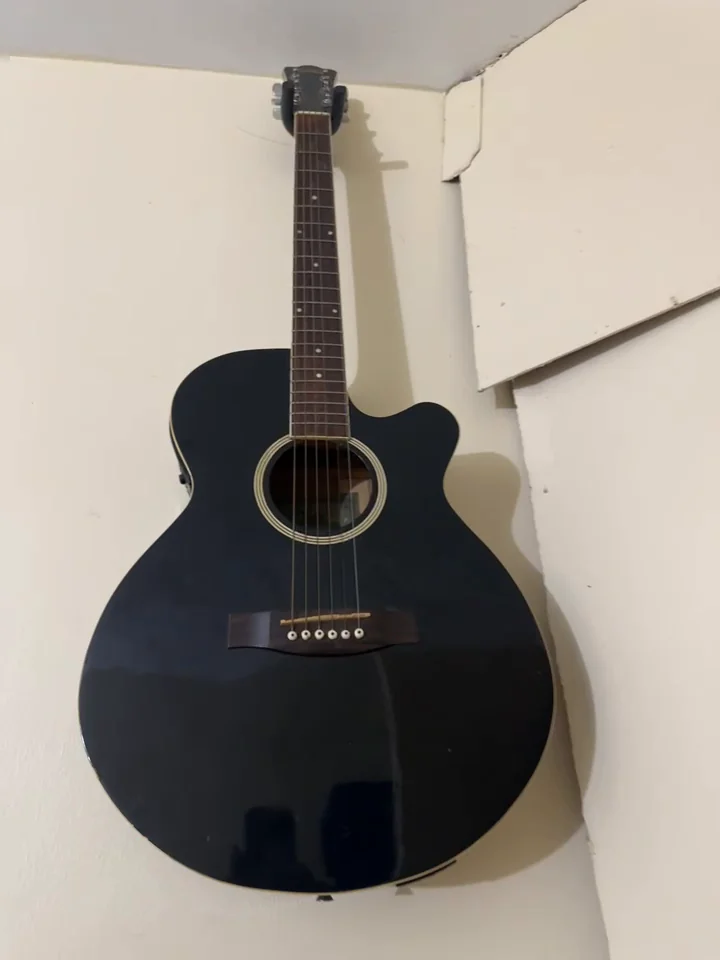
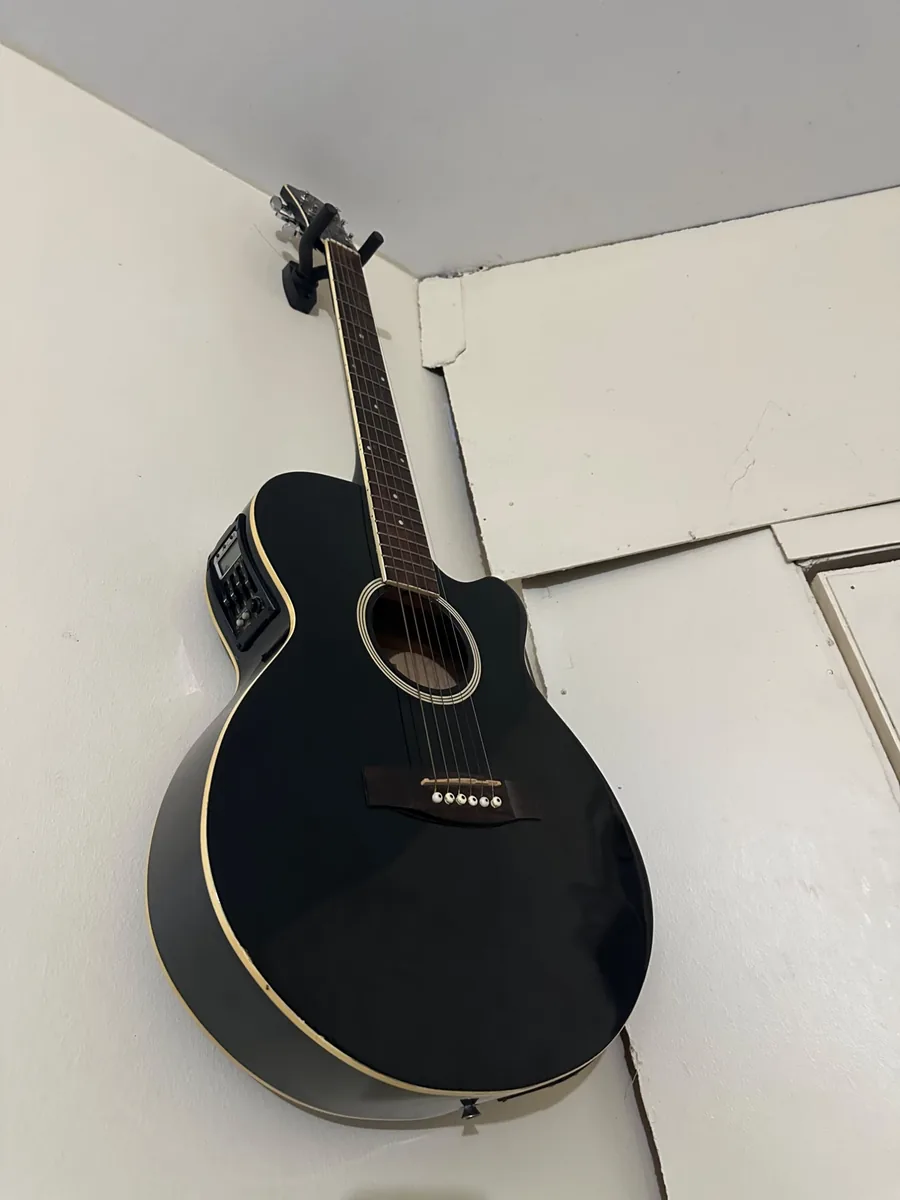
Store : la guitare noire reçoit ses vraies photos (#70)
Les trois vues de la fiche « Guitare électro-acoustique noire » étaient
des images tirées de la vidéo, en 720 x 960. Elles cèdent la place aux
deux photos fournies, en 900 x 1200 : la guitare accrochée au mur, de
face puis de trois quarts, où se lisent le préampli et le filet crème.

La fiche passe donc de trois vues à deux, et vue-guitare-noire-3.webp
disparaît. Les deux photos sont bien distinctes l'une de l'autre (écart
de luminance 17,5 sur 64 x 64, au-dessus du seuil de 11).

Cache-busting porté à ?v=65 sur les dix pages.

Claude-Session: https://claude.ai/code/session_019Q1DhanERt7HiVndSRESEk

diff --git a/store/index.html b/store/index.html
@@ -12,7 +12,7 @@
 <link crossorigin="" href="https://fonts.gstatic.com" rel="preconnect"/>
 <link href="https://fonts.googleapis.com/css2?family=Poppins:wght@300;400;500;600;700;800&amp;family=Caveat:wght@500;700&amp;display=swap" rel="stylesheet"/>
 <script>document.documentElement.classList.add('js');try{var r=document.documentElement;if(!r.hasAttribute('data-theme-lock')){var t=localStorage.getItem('reatm-theme');if(t){r.setAttribute('data-theme',t);}}}catch(e){}</script>
-<link rel="stylesheet" href="../css/reatm.css?v=64"/>
+<link rel="stylesheet" href="../css/reatm.css?v=65"/>
 <style>
 /* ===== STORE — showroom : blanc, noir, gris. Clean avant tout ===== */
 .phero{background:#fff;color:#050505;border-bottom:1px solid #e6e6e6}
@@ -226,7 +226,7 @@ html[data-theme="dark"] .st-cta .btn-acc{background:#111;color:#fff}
 <section class="sec" id="location" style="background:var(--bg-alt)">
 <div class="wrap">
 <div class="sec-head reveal"><span class="sec-num">02</span><div><h2 class="sec-title">En location</h2><p class="sec-lead">À la séance, à la journée ou pour la durée de votre événement. Le matériel part réglé et testé.</p></div></div>
-<div class="prod"><article class="reveal" style="--d:0ms"><button class="shot" type="button" data-nom="Batterie électronique Alesis" data-vues="../assets/vue-batterie-alesis-1.webp|../assets/vue-batterie-alesis-2.webp" aria-label="Voir les 2 vues de Batterie électronique Alesis"><div class="im" style="background-image:url('../assets/vue-batterie-alesis-1.webp')"></div><span class="avail">Disponible</span><span class="vues-n">2 vues</span></button><div class="body"><span class="cat">Batterie</span><h3>Batterie électronique Alesis</h3><div class="ref">Pads et cymbales, double pédale</div><div class="acts"><a href="https://wa.me/212651475341?text=Bonjour%20REATM%20Store%2C%20je%20souhaite%20louer%20%3A%20Batterie%20%C3%A9lectronique%20Alesis.%20Quelles%20sont%20vos%20disponibilit%C3%A9s%20%3F" target="_blank" rel="noopener">Louer</a><a href="https://wa.me/212651475341?text=Bonjour%20REATM%20Store%2C%20je%20souhaite%20un%20devis%20pour%20la%20location%20de%20%3A%20Batterie%20%C3%A9lectronique%20Alesis." target="_blank" rel="noopener">Demander un devis</a></div></div></article><article class="reveal" style="--d:70ms"><button class="shot" type="button" data-nom="Guitare électro-acoustique" data-vues="../assets/vue-guitare-naturelle-1.webp|../assets/vue-guitare-naturelle-2.webp|../assets/vue-guitare-naturelle-3.webp|../assets/vue-guitare-naturelle-4.webp" aria-label="Voir les 4 vues de Guitare électro-acoustique"><div class="im" style="background-image:url('../assets/vue-guitare-naturelle-1.webp')"></div><span class="avail">Disponible</span><span class="vues-n">4 vues</span></button><div class="body"><span class="cat">Guitares</span><h3>Guitare électro-acoustique</h3><div class="ref">Finition naturelle, pan coupé</div><div class="acts"><a href="https://wa.me/212651475341?text=Bonjour%20REATM%20Store%2C%20je%20souhaite%20louer%20%3A%20Guitare%20%C3%A9lectro-acoustique.%20Quelles%20sont%20vos%20disponibilit%C3%A9s%20%3F" target="_blank" rel="noopener">Louer</a><a href="https://wa.me/212651475341?text=Bonjour%20REATM%20Store%2C%20je%20souhaite%20un%20devis%20pour%20la%20location%20de%20%3A%20Guitare%20%C3%A9lectro-acoustique." target="_blank" rel="noopener">Demander un devis</a></div></div></article><article class="reveal" style="--d:140ms"><button class="shot" type="button" data-nom="Guitare électro-acoustique noire" data-vues="../assets/vue-guitare-noire-1.webp|../assets/vue-guitare-noire-2.webp|../assets/vue-guitare-noire-3.webp" aria-label="Voir les 3 vues de Guitare électro-acoustique noire"><div class="im" style="background-image:url('../assets/vue-guitare-noire-1.webp')"></div><span class="avail">Disponible</span><span class="vues-n">3 vues</span></button><div class="body"><span class="cat">Guitares</span><h3>Guitare électro-acoustique noire</h3><div class="ref">Pan coupé, préampli</div><div class="acts"><a href="https://wa.me/212651475341?text=Bonjour%20REATM%20Store%2C%20je%20souhaite%20louer%20%3A%20Guitare%20%C3%A9lectro-acoustique%20noire.%20Quelles%20sont%20vos%20disponibilit%C3%A9s%20%3F" target="_blank" rel="noopener">Louer</a><a href="https://wa.me/212651475341?text=Bonjour%20REATM%20Store%2C%20je%20souhaite%20un%20devis%20pour%20la%20location%20de%20%3A%20Guitare%20%C3%A9lectro-acoustique%20noire." target="_blank" rel="noopener">Demander un devis</a></div></div></article><article class="reveal" style="--d:0ms"><button class="shot" type="button" data-nom="Guitare Takamine" data-vues="../assets/vue-guitare-takamine-1.webp|../assets/vue-guitare-takamine-2.webp|../assets/vue-guitare-takamine-3.webp" aria-label="Voir les 3 vues de Guitare Takamine"><div class="im" style="background-image:url('../assets/vue-guitare-takamine-1.webp')"></div><span class="avail">Disponible</span><span class="vues-n">3 vues</span></button><div class="body"><span class="cat">Guitares</span><h3>Guitare Takamine</h3><div class="ref">Électro-acoustique, pan coupé</div><div class="acts"><a href="https://wa.me/212651475341?text=Bonjour%20REATM%20Store%2C%20je%20souhaite%20louer%20%3A%20Guitare%20Takamine.%20Quelles%20sont%20vos%20disponibilit%C3%A9s%20%3F" target="_blank" rel="noopener">Louer</a><a href="https://wa.me/212651475341?text=Bonjour%20REATM%20Store%2C%20je%20souhaite%20un%20devis%20pour%20la%20location%20de%20%3A%20Guitare%20Takamine." target="_blank" rel="noopener">Demander un devis</a></div></div></article><article class="reveal" style="--d:70ms"><button class="shot" type="button" data-nom="Clavier Yamaha argent" data-vues="../assets/vue-clavier-yamaha-1.webp|../assets/vue-clavier-yamaha-2.webp|../assets/vue-clavier-yamaha-3.webp" aria-label="Voir les 3 vues de Clavier Yamaha argent"><div class="im" style="background-image:url('../assets/vue-clavier-yamaha-1.webp')"></div><span class="avail">Disponible</span><span class="vues-n">3 vues</span></button><div class="body"><span class="cat">Claviers</span><h3>Clavier Yamaha argent</h3><div class="ref">61 touches, sur pied</div><div class="acts"><a href="https://wa.me/212651475341?text=Bonjour%20REATM%20Store%2C%20je%20souhaite%20louer%20%3A%20Clavier%20Yamaha%20argent.%20Quelles%20sont%20vos%20disponibilit%C3%A9s%20%3F" target="_blank" rel="noopener">Louer</a><a href="https://wa.me/212651475341?text=Bonjour%20REATM%20Store%2C%20je%20souhaite%20un%20devis%20pour%20la%20location%20de%20%3A%20Clavier%20Yamaha%20argent." target="_blank" rel="noopener">Demander un devis</a></div></div></article><article class="reveal" style="--d:140ms"><button class="shot" type="button" data-nom="Basse électrique" data-vues="../assets/vue-basse-1.webp|../assets/vue-basse-2.webp" aria-label="Voir les 2 vues de Basse électrique"><div class="im" style="background-image:url('../assets/vue-basse-1.webp')"></div><span class="avail">Disponible</span><span class="vues-n">2 vues</span></button><div class="body"><span class="cat">Basses</span><h3>Basse électrique</h3><div class="ref">Quatre cordes, finition sunburst</div><div class="acts"><a href="https://wa.me/212651475341?text=Bonjour%20REATM%20Store%2C%20je%20souhaite%20louer%20%3A%20Basse%20%C3%A9lectrique.%20Quelles%20sont%20vos%20disponibilit%C3%A9s%20%3F" target="_blank" rel="noopener">Louer</a><a href="https://wa.me/212651475341?text=Bonjour%20REATM%20Store%2C%20je%20souhaite%20un%20devis%20pour%20la%20location%20de%20%3A%20Basse%20%C3%A9lectrique." target="_blank" rel="noopener">Demander un devis</a></div></div></article><article class="reveal" style="--d:0ms"><button class="shot" type="button" data-nom="Clavier Yamaha noir" data-vues="../assets/vue-yamaha-noir-1.webp|../assets/vue-yamaha-noir-2.webp|../assets/vue-yamaha-noir-3.webp" aria-label="Voir les 3 vues de Clavier Yamaha noir"><div class="im" style="background-image:url('../assets/vue-yamaha-noir-1.webp')"></div><span class="avail">Disponible</span><span class="vues-n">3 vues</span></button><div class="body"><span class="cat">Claviers</span><h3>Clavier Yamaha noir</h3><div class="ref">61 touches, sur pied</div><div class="acts"><a href="https://wa.me/212651475341?text=Bonjour%20REATM%20Store%2C%20je%20souhaite%20louer%20%3A%20Clavier%20Yamaha%20noir.%20Quelles%20sont%20vos%20disponibilit%C3%A9s%20%3F" target="_blank" rel="noopener">Louer</a><a href="https://wa.me/212651475341?text=Bonjour%20REATM%20Store%2C%20je%20souhaite%20un%20devis%20pour%20la%20location%20de%20%3A%20Clavier%20Yamaha%20noir." target="_blank" rel="noopener">Demander un devis</a></div></div></article><article class="reveal" style="--d:70ms"><button class="shot" type="button" data-nom="Piano Roland XPS-10x Red" data-vues="../assets/vue-roland-xps10-1.webp|../assets/vue-roland-xps10-2.webp|../assets/vue-roland-xps10-3.webp" aria-label="Voir les 3 vues de Piano Roland XPS-10x Red"><div class="im im--entier" style="background-image:url('../assets/vue-roland-xps10-1.webp')"></div><span class="avail">Disponible</span><span class="vues-n">3 vues</span></button><div class="body"><span class="cat">Claviers</span><h3>Piano Roland XPS-10x Red</h3><div class="ref">Synthétiseur arrangeur, 61 touches</div><div class="acts"><a href="https://wa.me/212651475341?text=Bonjour%20REATM%20Store%2C%20je%20souhaite%20louer%20%3A%20Piano%20Roland%20XPS-10x%20Red.%20Quelles%20sont%20vos%20disponibilit%C3%A9s%20%3F" target="_blank" rel="noopener">Louer</a><a href="https://wa.me/212651475341?text=Bonjour%20REATM%20Store%2C%20je%20souhaite%20un%20devis%20pour%20la%20location%20de%20%3A%20Piano%20Roland%20XPS-10x%20Red." target="_blank" rel="noopener">Demander un devis</a></div></div></article></div>
+<div class="prod"><article class="reveal" style="--d:0ms"><button class="shot" type="button" data-nom="Batterie électronique Alesis" data-vues="../assets/vue-batterie-alesis-1.webp|../assets/vue-batterie-alesis-2.webp" aria-label="Voir les 2 vues de Batterie électronique Alesis"><div class="im" style="background-image:url('../assets/vue-batterie-alesis-1.webp')"></div><span class="avail">Disponible</span><span class="vues-n">2 vues</span></button><div class="body"><span class="cat">Batterie</span><h3>Batterie électronique Alesis</h3><div class="ref">Pads et cymbales, double pédale</div><div class="acts"><a href="https://wa.me/212651475341?text=Bonjour%20REATM%20Store%2C%20je%20souhaite%20louer%20%3A%20Batterie%20%C3%A9lectronique%20Alesis.%20Quelles%20sont%20vos%20disponibilit%C3%A9s%20%3F" target="_blank" rel="noopener">Louer</a><a href="https://wa.me/212651475341?text=Bonjour%20REATM%20Store%2C%20je%20souhaite%20un%20devis%20pour%20la%20location%20de%20%3A%20Batterie%20%C3%A9lectronique%20Alesis." target="_blank" rel="noopener">Demander un devis</a></div></div></article><article class="reveal" style="--d:70ms"><button class="shot" type="button" data-nom="Guitare électro-acoustique" data-vues="../assets/vue-guitare-naturelle-1.webp|../assets/vue-guitare-naturelle-2.webp|../assets/vue-guitare-naturelle-3.webp|../assets/vue-guitare-naturelle-4.webp" aria-label="Voir les 4 vues de Guitare électro-acoustique"><div class="im" style="background-image:url('../assets/vue-guitare-naturelle-1.webp')"></div><span class="avail">Disponible</span><span class="vues-n">4 vues</span></button><div class="body"><span class="cat">Guitares</span><h3>Guitare électro-acoustique</h3><div class="ref">Finition naturelle, pan coupé</div><div class="acts"><a href="https://wa.me/212651475341?text=Bonjour%20REATM%20Store%2C%20je%20souhaite%20louer%20%3A%20Guitare%20%C3%A9lectro-acoustique.%20Quelles%20sont%20vos%20disponibilit%C3%A9s%20%3F" target="_blank" rel="noopener">Louer</a><a href="https://wa.me/212651475341?text=Bonjour%20REATM%20Store%2C%20je%20souhaite%20un%20devis%20pour%20la%20location%20de%20%3A%20Guitare%20%C3%A9lectro-acoustique." target="_blank" rel="noopener">Demander un devis</a></div></div></article><article class="reveal" style="--d:140ms"><button class="shot" type="button" data-nom="Guitare électro-acoustique noire" data-vues="../assets/vue-guitare-noire-1.webp|../assets/vue-guitare-noire-2.webp" aria-label="Voir les 2 vues de Guitare électro-acoustique noire"><div class="im" style="background-image:url('../assets/vue-guitare-noire-1.webp')"></div><span class="avail">Disponible</span><span class="vues-n">2 vues</span></button><div class="body"><span class="cat">Guitares</span><h3>Guitare électro-acoustique noire</h3><div class="ref">Pan coupé, préampli</div><div class="acts"><a href="https://wa.me/212651475341?text=Bonjour%20REATM%20Store%2C%20je%20souhaite%20louer%20%3A%20Guitare%20%C3%A9lectro-acoustique%20noire.%20Quelles%20sont%20vos%20disponibilit%C3%A9s%20%3F" target="_blank" rel="noopener">Louer</a><a href="https://wa.me/212651475341?text=Bonjour%20REATM%20Store%2C%20je%20souhaite%20un%20devis%20pour%20la%20location%20de%20%3A%20Guitare%20%C3%A9lectro-acoustique%20noire." target="_blank" rel="noopener">Demander un devis</a></div></div></article><article class="reveal" style="--d:0ms"><button class="shot" type="button" data-nom="Guitare Takamine" data-vues="../assets/vue-guitare-takamine-1.webp|../assets/vue-guitare-takamine-2.webp|../assets/vue-guitare-takamine-3.webp" aria-label="Voir les 3 vues de Guitare Takamine"><div class="im" style="background-image:url('../assets/vue-guitare-takamine-1.webp')"></div><span class="avail">Disponible</span><span class="vues-n">3 vues</span></button><div class="body"><span class="cat">Guitares</span><h3>Guitare Takamine</h3><div class="ref">Électro-acoustique, pan coupé</div><div class="acts"><a href="https://wa.me/212651475341?text=Bonjour%20REATM%20Store%2C%20je%20souhaite%20louer%20%3A%20Guitare%20Takamine.%20Quelles%20sont%20vos%20disponibilit%C3%A9s%20%3F" target="_blank" rel="noopener">Louer</a><a href="https://wa.me/212651475341?text=Bonjour%20REATM%20Store%2C%20je%20souhaite%20un%20devis%20pour%20la%20location%20de%20%3A%20Guitare%20Takamine." target="_blank" rel="noopener">Demander un devis</a></div></div></article><article class="reveal" style="--d:70ms"><button class="shot" type="button" data-nom="Clavier Yamaha argent" data-vues="../assets/vue-clavier-yamaha-1.webp|../assets/vue-clavier-yamaha-2.webp|../assets/vue-clavier-yamaha-3.webp" aria-label="Voir les 3 vues de Clavier Yamaha argent"><div class="im" style="background-image:url('../assets/vue-clavier-yamaha-1.webp')"></div><span class="avail">Disponible</span><span class="vues-n">3 vues</span></button><div class="body"><span class="cat">Claviers</span><h3>Clavier Yamaha argent</h3><div class="ref">61 touches, sur pied</div><div class="acts"><a href="https://wa.me/212651475341?text=Bonjour%20REATM%20Store%2C%20je%20souhaite%20louer%20%3A%20Clavier%20Yamaha%20argent.%20Quelles%20sont%20vos%20disponibilit%C3%A9s%20%3F" target="_blank" rel="noopener">Louer</a><a href="https://wa.me/212651475341?text=Bonjour%20REATM%20Store%2C%20je%20souhaite%20un%20devis%20pour%20la%20location%20de%20%3A%20Clavier%20Yamaha%20argent." target="_blank" rel="noopener">Demander un devis</a></div></div></article><article class="reveal" style="--d:140ms"><button class="shot" type="button" data-nom="Basse électrique" data-vues="../assets/vue-basse-1.webp|../assets/vue-basse-2.webp" aria-label="Voir les 2 vues de Basse électrique"><div class="im" style="background-image:url('../assets/vue-basse-1.webp')"></div><span class="avail">Disponible</span><span class="vues-n">2 vues</span></button><div class="body"><span class="cat">Basses</span><h3>Basse électrique</h3><div class="ref">Quatre cordes, finition sunburst</div><div class="acts"><a href="https://wa.me/212651475341?text=Bonjour%20REATM%20Store%2C%20je%20souhaite%20louer%20%3A%20Basse%20%C3%A9lectrique.%20Quelles%20sont%20vos%20disponibilit%C3%A9s%20%3F" target="_blank" rel="noopener">Louer</a><a href="https://wa.me/212651475341?text=Bonjour%20REATM%20Store%2C%20je%20souhaite%20un%20devis%20pour%20la%20location%20de%20%3A%20Basse%20%C3%A9lectrique." target="_blank" rel="noopener">Demander un devis</a></div></div></article><article class="reveal" style="--d:0ms"><button class="shot" type="button" data-nom="Clavier Yamaha noir" data-vues="../assets/vue-yamaha-noir-1.webp|../assets/vue-yamaha-noir-2.webp|../assets/vue-yamaha-noir-3.webp" aria-label="Voir les 3 vues de Clavier Yamaha noir"><div class="im" style="background-image:url('../assets/vue-yamaha-noir-1.webp')"></div><span class="avail">Disponible</span><span class="vues-n">3 vues</span></button><div class="body"><span class="cat">Claviers</span><h3>Clavier Yamaha noir</h3><div class="ref">61 touches, sur pied</div><div class="acts"><a href="https://wa.me/212651475341?text=Bonjour%20REATM%20Store%2C%20je%20souhaite%20louer%20%3A%20Clavier%20Yamaha%20noir.%20Quelles%20sont%20vos%20disponibilit%C3%A9s%20%3F" target="_blank" rel="noopener">Louer</a><a href="https://wa.me/212651475341?text=Bonjour%20REATM%20Store%2C%20je%20souhaite%20un%20devis%20pour%20la%20location%20de%20%3A%20Clavier%20Yamaha%20noir." target="_blank" rel="noopener">Demander un devis</a></div></div></article><article class="reveal" style="--d:70ms"><button class="shot" type="button" data-nom="Piano Roland XPS-10x Red" data-vues="../assets/vue-roland-xps10-1.webp|../assets/vue-roland-xps10-2.webp|../assets/vue-roland-xps10-3.webp" aria-label="Voir les 3 vues de Piano Roland XPS-10x Red"><div class="im im--entier" style="background-image:url('../assets/vue-roland-xps10-1.webp')"></div><span class="avail">Disponible</span><span class="vues-n">3 vues</span></button><div class="body"><span class="cat">Claviers</span><h3>Piano Roland XPS-10x Red</h3><div class="ref">Synthétiseur arrangeur, 61 touches</div><div class="acts"><a href="https://wa.me/212651475341?text=Bonjour%20REATM%20Store%2C%20je%20souhaite%20louer%20%3A%20Piano%20Roland%20XPS-10x%20Red.%20Quelles%20sont%20vos%20disponibilit%C3%A9s%20%3F" target="_blank" rel="noopener">Louer</a><a href="https://wa.me/212651475341?text=Bonjour%20REATM%20Store%2C%20je%20souhaite%20un%20devis%20pour%20la%20location%20de%20%3A%20Piano%20Roland%20XPS-10x%20Red." target="_blank" rel="noopener">Demander un devis</a></div></div></article></div>
 </div>
 </section>
 
@@ -339,7 +339,7 @@ html[data-theme="dark"] .st-cta .btn-acc{background:#111;color:#fff}
 </footer>
 
 <button class="fab" id="fab" aria-label="Revenir en haut"><i class="fas fa-arrow-up"></i></button>
-<script src="../js/reatm.js?v=64"></script>
+<script src="../js/reatm.js?v=65"></script>
 
 </body>
 </html>

diff --git a/bibliotheque/index.html b/bibliotheque/index.html
@@ -12,7 +12,7 @@
 <link crossorigin="" href="https://fonts.gstatic.com" rel="preconnect"/>
 <link href="https://fonts.googleapis.com/css2?family=Poppins:wght@300;400;500;600;700;800&amp;family=Caveat:wght@500;700&amp;display=swap" rel="stylesheet"/>
 <script>document.documentElement.classList.add('js');try{var r=document.documentElement;if(!r.hasAttribute('data-theme-lock')){var t=localStorage.getItem('reatm-theme');if(t){r.setAttribute('data-theme',t);}}}catch(e){}</script>
-<link rel="stylesheet" href="../css/reatm.css?v=64"/>
+<link rel="stylesheet" href="../css/reatm.css?v=65"/>
 <style>
 /* ===== BIBLIOTHÈQUE — l'univers Academy, en mode catalogue ===== */
 /* le libellé du champ existe pour les lecteurs d'écran seulement */
@@ -460,7 +460,7 @@ body.lis-ouverte{overflow:hidden}
 </footer>
 
 <button class="fab" id="fab" aria-label="Revenir en haut"><i class="fas fa-arrow-up"></i></button>
-<script src="../js/reatm.js?v=64"></script>
+<script src="../js/reatm.js?v=65"></script>
 <script>
 /* ===== Bibliothèque : recherche, filtre et liseuse =====
    Tout part du DOM : chaque fiche porte ses mots-clés et ses pages, donc la

diff --git a/maison/index.html b/maison/index.html
@@ -12,7 +12,7 @@
 <link crossorigin="" href="https://fonts.gstatic.com" rel="preconnect"/>
 <link href="https://fonts.googleapis.com/css2?family=Poppins:wght@300;400;500;600;700;800&amp;family=Caveat:wght@500;700&amp;display=swap" rel="stylesheet"/>
 <script>document.documentElement.classList.add('js');try{var r=document.documentElement;if(!r.hasAttribute('data-theme-lock')){var t=localStorage.getItem('reatm-theme');if(t){r.setAttribute('data-theme',t);}}}catch(e){}</script>
-<link rel="stylesheet" href="../css/reatm.css?v=64"/>
+<link rel="stylesheet" href="../css/reatm.css?v=65"/>
 <style>
 /* ===== LA MAISON — vue d'ensemble, waveform géante ===== */
 .phero{background:#050505;color:#fff;overflow:hidden}
@@ -416,7 +416,7 @@
 </footer>
 
 <button class="fab" id="fab" aria-label="Revenir en haut"><i class="fas fa-arrow-up"></i></button>
-<script src="../js/reatm.js?v=64"></script>
+<script src="../js/reatm.js?v=65"></script>
 <script>
 /* ===== Aperçu des pôles : le bloc change tout seul =====
    Les cinq plans sont dans la page, empilés ; on ne fait que déplacer la

diff --git a/production/index.html b/production/index.html
@@ -12,7 +12,7 @@
 <link crossorigin="" href="https://fonts.gstatic.com" rel="preconnect"/>
 <link href="https://fonts.googleapis.com/css2?family=Poppins:wght@300;400;500;600;700;800&amp;family=Caveat:wght@500;700&amp;display=swap" rel="stylesheet"/>
 <script>document.documentElement.classList.add('js');try{var r=document.documentElement;if(!r.hasAttribute('data-theme-lock')){var t=localStorage.getItem('reatm-theme');if(t){r.setAttribute('data-theme',t);}}}catch(e){}</script>
-<link rel="stylesheet" href="../css/reatm.css?v=64"/>
+<link rel="stylesheet" href="../css/reatm.css?v=65"/>
 <style>
 /* ===== PRODUCTION — jaune + blanc + noir, typographie massive ===== */
 .phero{background:#050505;color:#fff}
@@ -303,7 +303,7 @@ html[data-theme="dark"] .pr-kitchen .pcard .tagline{color:#FACC15}
 </footer>
 
 <button class="fab" id="fab" aria-label="Revenir en haut"><i class="fas fa-arrow-up"></i></button>
-<script src="../js/reatm.js?v=64"></script>
+<script src="../js/reatm.js?v=65"></script>
 <script>
 (function(){
   var el=document.getElementById('prBuild');

diff --git a/academy/index.html b/academy/index.html
@@ -12,7 +12,7 @@
 <link crossorigin="" href="https://fonts.gstatic.com" rel="preconnect"/>
 <link href="https://fonts.googleapis.com/css2?family=Poppins:wght@300;400;500;600;700;800&amp;family=Caveat:wght@500;700&amp;display=swap" rel="stylesheet"/>
 <script>document.documentElement.classList.add('js');try{var r=document.documentElement;if(!r.hasAttribute('data-theme-lock')){var t=localStorage.getItem('reatm-theme');if(t){r.setAttribute('data-theme',t);}}}catch(e){}</script>
-<link rel="stylesheet" href="../css/reatm.css?v=64"/>
+<link rel="stylesheet" href="../css/reatm.css?v=65"/>
 <style>
 /* ===== ACADEMY — bleu + blanc, lumineuse et pédagogique ===== */
 .phero{background:#F7F8FA;color:#111111}
@@ -377,7 +377,7 @@ html[data-theme="dark"] .ac-cta{background:#0D1117;color:#fff}
 </footer>
 
 <button class="fab" id="fab" aria-label="Revenir en haut"><i class="fas fa-arrow-up"></i></button>
-<script src="../js/reatm.js?v=64"></script>
+<script src="../js/reatm.js?v=65"></script>
 <script>
 (function(){
   var el=document.getElementById('acLevels');

diff --git a/formation-media/index.html b/formation-media/index.html
@@ -12,7 +12,7 @@
 <link crossorigin="" href="https://fonts.gstatic.com" rel="preconnect"/>
 <link href="https://fonts.googleapis.com/css2?family=Poppins:wght@300;400;500;600;700;800&amp;family=Caveat:wght@500;700&amp;display=swap" rel="stylesheet"/>
 <script>document.documentElement.classList.add('js');try{var r=document.documentElement;if(!r.hasAttribute('data-theme-lock')){var t=localStorage.getItem('reatm-theme');if(t){r.setAttribute('data-theme',t);}}}catch(e){}</script>
-<link rel="stylesheet" href="../css/reatm.css?v=64"/>
+<link rel="stylesheet" href="../css/reatm.css?v=65"/>
 <style>
 /* ===== ACADEMY — bleu + blanc, lumineuse et pédagogique ===== */
 .phero{background:#F7F8FA;color:#111111}
@@ -382,7 +382,7 @@ html[data-theme="dark"] .ac-cta{background:#0D1117;color:#fff}
 </footer>
 
 <button class="fab" id="fab" aria-label="Revenir en haut"><i class="fas fa-arrow-up"></i></button>
-<script src="../js/reatm.js?v=64"></script>
+<script src="../js/reatm.js?v=65"></script>
 <script>
 (function(){
   var el=document.getElementById('acLevels');

diff --git a/formation-musicale/index.html b/formation-musicale/index.html
@@ -12,7 +12,7 @@
 <link crossorigin="" href="https://fonts.gstatic.com" rel="preconnect"/>
 <link href="https://fonts.googleapis.com/css2?family=Poppins:wght@300;400;500;600;700;800&amp;family=Caveat:wght@500;700&amp;display=swap" rel="stylesheet"/>
 <script>document.documentElement.classList.add('js');try{var r=document.documentElement;if(!r.hasAttribute('data-theme-lock')){var t=localStorage.getItem('reatm-theme');if(t){r.setAttribute('data-theme',t);}}}catch(e){}</script>
-<link rel="stylesheet" href="../css/reatm.css?v=64"/>
+<link rel="stylesheet" href="../css/reatm.css?v=65"/>
 <style>
 /* ===== ACADEMY — bleu + blanc, lumineuse et pédagogique ===== */
 .phero{background:#F7F8FA;color:#111111}
@@ -396,7 +396,7 @@ html[data-theme="dark"] .ac-cta{background:#0D1117;color:#fff}
 </footer>
 
 <button class="fab" id="fab" aria-label="Revenir en haut"><i class="fas fa-arrow-up"></i></button>
-<script src="../js/reatm.js?v=64"></script>
+<script src="../js/reatm.js?v=65"></script>
 <script>
 (function(){
   var el=document.getElementById('acLevels');

diff --git a/studio/index.html b/studio/index.html
@@ -12,7 +12,7 @@
 <link crossorigin="" href="https://fonts.gstatic.com" rel="preconnect"/>
 <link href="https://fonts.googleapis.com/css2?family=Poppins:wght@300;400;500;600;700;800&amp;family=Caveat:wght@500;700&amp;display=swap" rel="stylesheet"/>
 <script>document.documentElement.classList.add('js');try{var r=document.documentElement;if(!r.hasAttribute('data-theme-lock')){var t=localStorage.getItem('reatm-theme');if(t){r.setAttribute('data-theme',t);}}}catch(e){}</script>
-<link rel="stylesheet" href="../css/reatm.css?v=64"/>
+<link rel="stylesheet" href="../css/reatm.css?v=65"/>
 <style>
 /* ===== STUDIO — sombre, sonore, technique ===== */
 .phero{background:#050505;color:#fff}
@@ -287,7 +287,7 @@ html[data-theme="light"] .st-serv .pcard p{color:#5b5b5b}
 </footer>
 
 <button class="fab" id="fab" aria-label="Revenir en haut"><i class="fas fa-arrow-up"></i></button>
-<script src="../js/reatm.js?v=64"></script>
+<script src="../js/reatm.js?v=65"></script>
 <script>
 (function(){
   var h=document.getElementById('stLight');

diff --git a/events/index.html b/events/index.html
@@ -12,7 +12,7 @@
 <link crossorigin="" href="https://fonts.gstatic.com" rel="preconnect"/>
 <link href="https://fonts.googleapis.com/css2?family=Poppins:wght@300;400;500;600;700;800&amp;family=Caveat:wght@500;700&amp;display=swap" rel="stylesheet"/>
 <script>document.documentElement.classList.add('js');try{var r=document.documentElement;if(!r.hasAttribute('data-theme-lock')){var t=localStorage.getItem('reatm-theme');if(t){r.setAttribute('data-theme',t);}}}catch(e){}</script>
-<link rel="stylesheet" href="../css/reatm.css?v=64"/>
+<link rel="stylesheet" href="../css/reatm.css?v=65"/>
 <style>
 /* ===== EVENTS — la scène : noir, blanc, lumière ===== */
 /* Deux enfants dans le fil désormais, le fil d'Ariane et la colonne de
@@ -327,7 +327,7 @@
 </footer>
 
 <button class="fab" id="fab" aria-label="Revenir en haut"><i class="fas fa-arrow-up"></i></button>
-<script src="../js/reatm.js?v=64"></script>
+<script src="../js/reatm.js?v=65"></script>
 
 </body>
 </html>

diff --git a/index.html b/index.html
@@ -12,7 +12,7 @@
 <link crossorigin="" href="https://fonts.gstatic.com" rel="preconnect"/>
 <link href="https://fonts.googleapis.com/css2?family=Poppins:wght@300;400;500;600;700;800&amp;family=Caveat:wght@500;700&amp;display=swap" rel="stylesheet"/>
 <script>document.documentElement.classList.add('js');try{var r=document.documentElement;if(!r.hasAttribute('data-theme-lock')){var t=localStorage.getItem('reatm-theme');if(t){r.setAttribute('data-theme',t);}}}catch(e){}</script>
-<link rel="stylesheet" href="css/reatm.css?v=64"/>
+<link rel="stylesheet" href="css/reatm.css?v=65"/>
 </head>
 <body>
 <!-- Jeu d'icônes sociales embarqué : affichage garanti même si le CDN est bloqué -->
@@ -238,6 +238,6 @@
 
 <button class="fab" id="fab" aria-label="Revenir en haut"><i class="fas fa-arrow-up"></i></button>
 
-<script src="js/reatm.js?v=64"></script>
+<script src="js/reatm.js?v=65"></script>
 </body>
 </html>
